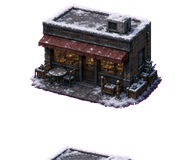
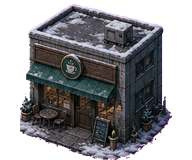
feat: refine secondary building exteriors

diff --git a/docs/worklogs/2026-05-02-visible-resource-pass.md b/docs/worklogs/2026-05-02-visible-resource-pass.md
@@ -260,3 +260,31 @@
 
 - 이번 패스는 야외 첫인상을 크게 바꾸는 1차 작업이다. 다만 일부 보조 건물은 아직 절차형 컷아웃 기반이므로, 다음 리소스 패스에서는 보조 건물 전용 AI 시트를 한 번 더 뽑아 차고, 물류 보관소, 구내 식당, 찻집, 호스텔 계열까지 같은 밀도로 끌어올리는 것이 좋다.
 - 지형 타일은 시각 밀도가 크게 올라갔지만 반복 타일로 쓰일 때 경계가 아주 완벽한 타일링은 아니다. 실제 플레이 화면에서 반복감이 거슬리면 가장 많이 보이는 `road_plain`, `slush_road`, `snow_ground`, `sidewalk_snow`부터 별도 무봉합 타일로 다시 생성한다.
+
+## 추가 패스: 보조 건물 AI 컷아웃 2차
+
+1차 야외 리소스 교체 뒤에도 일부 보조 건물이 절차형 컷아웃으로 남아 있어, 장거리 이동 시 외형 밀도가 떨어질 수 있다고 판단했다. 그래서 별도 AI 생성 시트를 하나 더 만들어 세탁소, 주택, 수리점, 차고, 물류 보관소, 구내 식당, 찻집, 호스텔, 식당 계열까지 같은 방향의 외형으로 맞췄다.
+
+### 구현 내용
+
+- `resources/world/city/reference/outdoor_secondary_building_sheet_2026-05-02.png`를 추가했다.
+- 생성 스크립트가 보조 건물 시트를 잘라 다음 런타임 PNG를 만들도록 확장했다.
+  - `building_hardware.png`
+  - `building_laundry.png`
+  - `building_residence.png`
+  - `building_repair_shop.png`
+  - `building_restaurant.png`
+  - `building_chapel.png`
+  - 기존 `building_storage_depot.png`, `building_garage.png`, `building_canteen.png`, `building_tea_shop.png`, `building_deli.png`, `building_hostel.png`도 AI 컷아웃으로 덮어썼다.
+- `OutdoorArtResolver`의 건물 매핑을 더 세분화했다.
+  - 철물점, 세탁소, 단독 주택, 수리점, 식당, 예배당이 더 이상 범용 창고/사무실/카페 외형을 공유하지 않는다.
+
+### 검증
+
+- `res://tests/unit/test_outdoor_controller.gd`
+- `res://tests/smoke/test_first_playable_loop.gd`
+- `git diff --check`
+
+### 남은 판단
+
+- AI 시트 기반 컷아웃은 실제 인게임 축소 상태에서 품질이 좋지만, 마젠타 크로마키 잔상이 일부 어두운 그림자 가장자리에 아주 조금 남을 수 있다. 현재 직접 확인한 세탁소와 물류 보관소는 플레이 화면에서 문제될 수준은 아니라고 판단했다.

diff --git a/docs/CURRENT_STATE.md b/docs/CURRENT_STATE.md
@@ -18,6 +18,7 @@ Systems already integrated in `main`:
 - 2026-05-02 야외 가시 리소스 대격변 1차가 들어갔다.
   - AI 생성 스타일 보드, 건물 시트, 소품 시트, 지형 타일 시트를 `resources/world/city/reference/`에 보관한다.
   - 실제 런타임 야외 건물/소품/도로/눈/보도 PNG는 `scripts/generate_world_visual_overhaul_assets.ps1`로 재생성한다.
+  - 보조 건물 2차 AI 시트로 세탁소, 주택, 수리점, 차고, 물류 보관소, 구내 식당, 찻집, 호스텔, 식당 계열까지 같은 밀도의 외형을 갖게 했다.
   - 주요 3x3 야외 블록은 직선 십자 도로만 반복하지 않도록 전면 공간, 골목, 서비스 차선, 눈더미, 가로등, 쇼핑카트, 바리케이드, 덤프스터 등 시각 소품을 추가했다.
   - `OutdoorArtResolver`는 건물 ID별 외형과 블록 데이터의 명시적 `asset_id` 소품을 해석한다.
 - Life-world item and recipe expansion.
